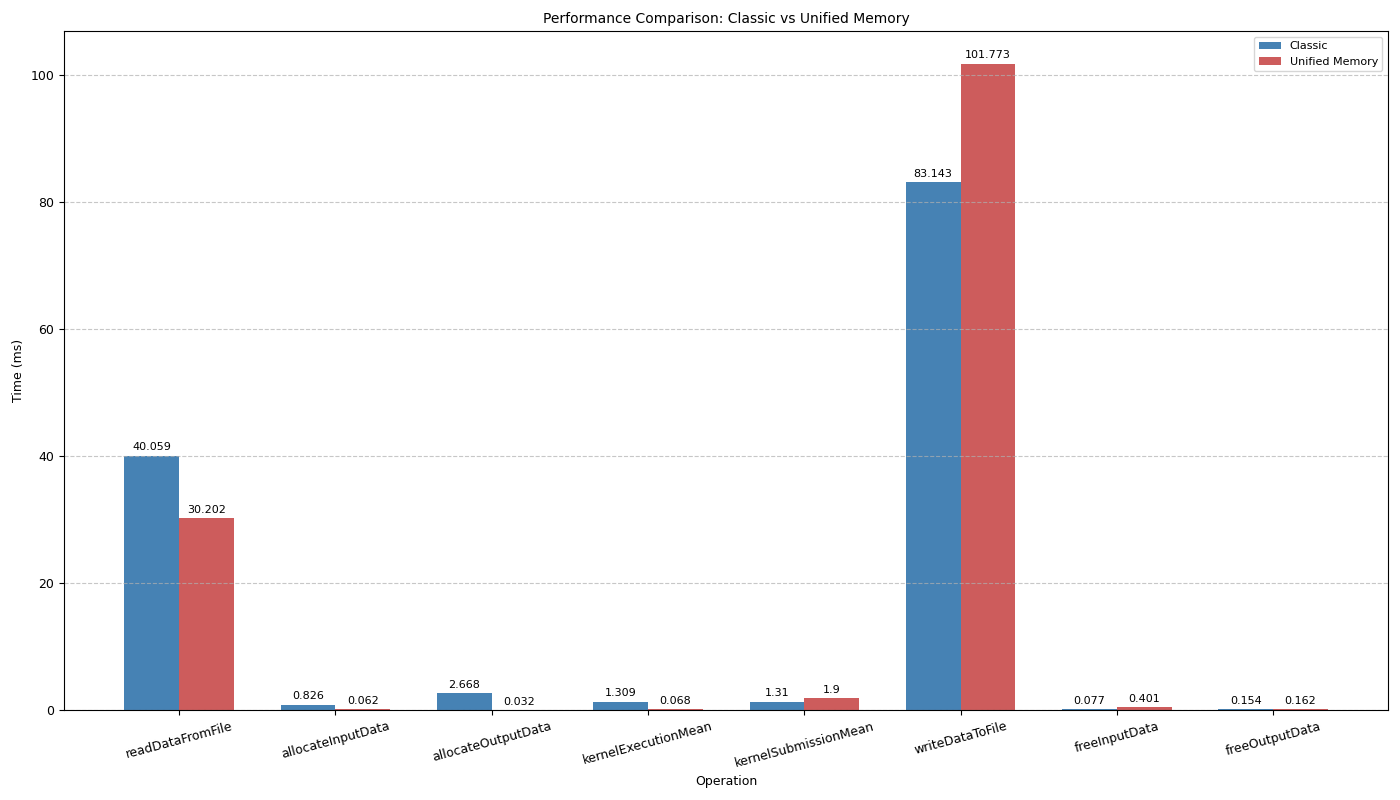
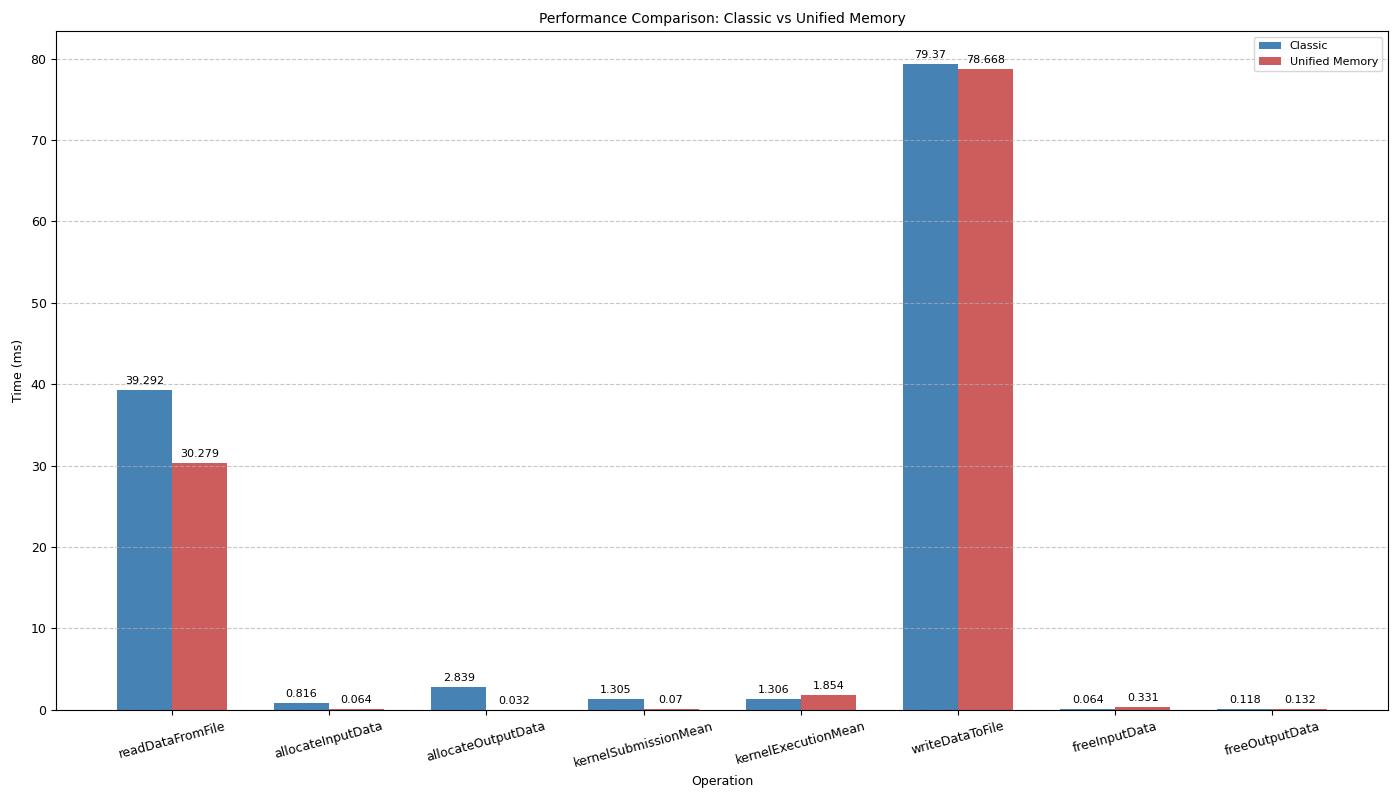
Fixed mistake with execution and submission buffers

diff --git a/src/main.cc b/src/main.cc
@@ -317,8 +317,8 @@ void mainRun(const std::string &inputFileName,
         }
       }
 
-      printTimingReport(vals, repeats, timings, "SUMMARY WorkDivByPoints execution times:");
-      printTimingReport(vals2, repeats, timings, "SUMMARY WorkDivByPoints submission times:");
+      printTimingReport(vals, repeats, timings, "SUMMARY WorkDivByPoints submission times:");
+      printTimingReport(vals2, repeats, timings, "SUMMARY WorkDivByPoints execution times:");
 
       begin = std::chrono::high_resolution_clock::now();
 

diff --git a/Results/compare_timing.py b/Results/compare_timing.py
@@ -93,7 +93,7 @@ plt.ylabel('Time (ms)')
 plt.title('Performance Comparison: Classic vs Unified Memory')
 plt.xticks([i + bar_width / 2 for i in index], df['Operation'], rotation=15)
 plt.legend()
-# plt.yscale('log') # logarithmic scale
+#plt.yscale('log') # logarithmic scale
 plt.tight_layout()
 plt.grid(axis='y', linestyle='--', alpha=0.7)
 plt.savefig("Results/mean_comparison.png")
